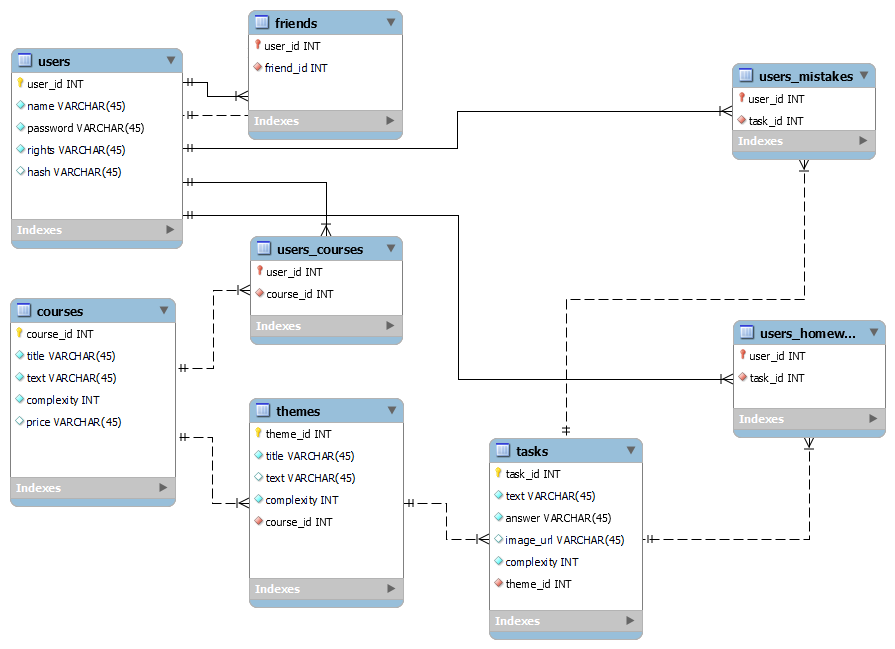
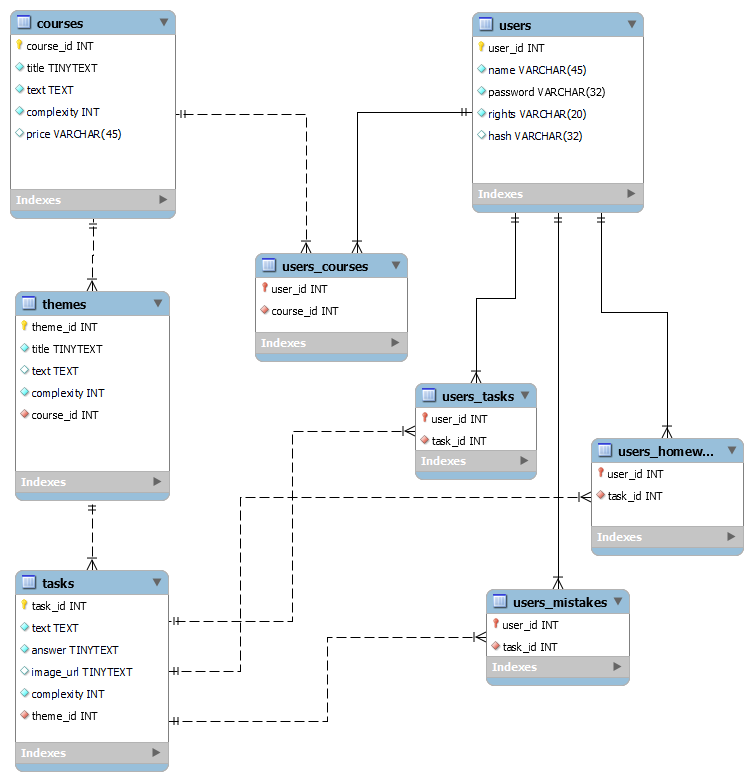
update README.md добавлена таблица users_tasks

diff --git a/README.md b/README.md
@@ -20,16 +20,16 @@
   - ~~Оценивание курса?~~
 
 ## Реализация
-Весь сайт держится на одной  MySQL базе данных - **fizportal_courses**
+Весь сайт держится на одной MySQL базе данных - **fizportal_courses**
 База данных имеет 8 таблиц:
-- **users** - список пользователей и их данные.
-- **courses** - список курсов и их данные.
-- **themes** - список тем(каждая тема связана с строкой из таблицы **courses** внешним ключом).
-- **users_courses** - таблица, реализующая связь "многие ко многим". Сопоставляет пользователя и курс, на который он записан.
-- **tasks** - список задач(каждая задача связана с строкой из таблицы **themes** внешним ключом).
-- **users_homework** - таблица, реализующая связь "многие ко многим". Сопоставляет пользователя и задачу из его домашней работы.
-- **friends** -  таблица, реализующая связь "многие ко многим". Сопоставляет пользователя и его друга.
-- **users_mistakes** -  таблица, реализующая связь "многие ко многим". Сопоставляет пользователя и задачу из его работы над ошибками.
+- **users** - Список пользователей и их данные.
+- **courses** - Список курсов и их данные.
+- **themes** - Список тем(каждая тема связана со строкой из таблицы **courses** внешним ключом).
+- **users_courses** - Таблица, реализующая связь "многие ко многим". Сопоставляет пользователя и курс, на который он записан.
+- **tasks** - Список задач(каждая задача связана со строкой из таблицы **themes** внешним ключом).
+- **users_tasks** - Таблица, реализующая связь "многие ко многим". Сопоставляет пользователя и решенную им задачу. Таблица создана для вычисления прогресса курсов и тем.
+- **users_homework** - Таблица, реализующая связь "многие ко многим". Сопоставляет пользователя и задачу из его домашней работы.
+- **users_mistakes** - Таблица, реализующая связь "многие ко многим". Сопоставляет пользователя и задачу из его работы над ошибками.
 
 
 ### Cхема базы данных
@@ -41,7 +41,7 @@
 **user->server->database**
 Отвечает несколько классов:
 - **Validator** - Проверяет данные на корректность.
-- **User_session** - класс управления сессией пользователя и cookie.
+- **User_session** - Класс управления сессией пользователя и cookie.
 - **User** - Класс для работы приложения с пользователем(его данными). Передает данные классу-валидатору **Validator**, хэширует пароль, создает сессию с помощью класса **User_session** и передает управление классу **Users_table**.
 - **Users_table** - Оперирует объектом класса **User**. Вносит уже готовые данные в таблицу **users**.
 ***
@@ -50,7 +50,7 @@
 - **Course_table** - Оперирует объектом класса **Course**. Сохраняет курс в таблице **courses**.
 - **Theme** - Создает объект темы для дальнейшей работы с ней.
 - **Themes_table** - Оперирует объектом класса **Theme**. Сохраняет тему в таблице **themes**.
-- **Task** - Cоздает объект задачи дальнейшей работы с ней.
+- **Task** - Создает объект задачи дальнейшей работы с ней.
 - **Tasks_table** - Оперирует объектом класса **Task**. Сохраняет задачу в таблице **tasks**.
 ***
 Отображением страниц управляет Фреймворк [**Twig**](https://twig.symfony.com/) посредством написанного мною класса **Render**. Он использует шаблоны отображения , лежащие в папке **templates**
@@ -61,6 +61,7 @@
 За зависимости отвечает [**Composer**](https://getcomposer.org/)
 
 Чтоб подтянуть зависимости выполнить:
+
 `$ composer install`
 ## Работа c cookie
 В таблице **users** есть специальное поле ***hash***, которое хранит значение хэша, присваиваемого пользователю при авторизации. При создании cookie, этот же хэш сохраняется на клиенте и в дальнейшем сверяется с хэшем из базы.
